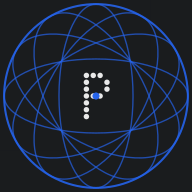
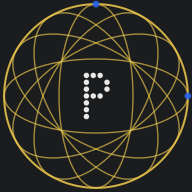
Fix particle positions and use gold wireframe color
- Add cx/cy to orbiting particles so they render at edge in static PNGs
- Change wireframe color from blue to gold (#E4C04A) per slate gold theme
- Particles remain blue (#2563EB), letter white (#ffffff)
- Re-export all icons with correct colors

🤖 Generated with [Claude Code](https://claude.com/claude-code)

diff --git a/src/Logo.tsx b/src/Logo.tsx
@@ -189,11 +189,12 @@ export const Logo: React.FC<LogoProps> = ({
       )}
 
       {/* Orbiting particles - rendered last so they appear on top */}
+      {/* cx/cy set to animation start positions so static renders show particles at edge, not center */}
       <g transform="translate(100, 100)">
-        <circle r="2.5" fill={finalParticleColor} opacity="0.9">
+        <circle cx="67" cy="0" r="2.5" fill={finalParticleColor} opacity="0.9">
           <animateMotion dur="8s" repeatCount="indefinite" path="M 67,0 A 67,27 0 1,1 -67,0 A 67,27 0 1,1 67,0" />
         </circle>
-        <circle r="2.5" fill={finalParticleColor} opacity="0.9">
+        <circle cx="0" cy="-67" r="2.5" fill={finalParticleColor} opacity="0.9">
           <animateMotion dur="8s" repeatCount="indefinite" path="M 0,-67 A 27,67 0 1,1 0,67 A 27,67 0 1,1 0,-67" />
         </circle>
       </g>

diff --git a/LOGO-DEPLOYMENTS.md b/LOGO-DEPLOYMENTS.md
@@ -6,7 +6,7 @@ Tracks where logos are deployed across projects and the export settings used.
 
 | Property | Value |
 |----------|-------|
-| Wireframe color | `#2563EB` (blue) |
+| Wireframe color | `#E4C04A` (gold) |
 | Particle color | `#2563EB` (blue) |
 | Letter color | `#ffffff` (white) |
 | Background | `#1a1c1e` (dark) |
@@ -29,7 +29,7 @@ Tracks where logos are deployed across projects and the export settings used.
 npm run export-icon -- \
   --size=1024 \
   --name=logo-slate-gold \
-  --color=#2563EB \
+  --color=#E4C04A \
   --particle-color=#2563EB \
   --letter-color=#ffffff \
   --background=#1a1c1e \
@@ -39,7 +39,7 @@ npm run export-icon -- \
 npm run export-icon -- \
   --size=48 \
   --name=logo-slate-gold-favicon \
-  --color=#2563EB \
+  --color=#E4C04A \
   --particle-color=#2563EB \
   --letter-color=#ffffff \
   --background=#1a1c1e \
@@ -69,7 +69,7 @@ npm run export-icon -- \
 npm run export-icon -- \
   --size=1024 \
   --name=principal-ade-icon \
-  --color=#2563EB \
+  --color=#E4C04A \
   --particle-color=#2563EB \
   --letter-color=#ffffff \
   --circular-background \
@@ -107,12 +107,12 @@ python3 generate_icons.py
 **Export commands:**
 ```bash
 # PWA icons
-npm run export-icon -- --size=192 --name=icon-192x192 --color=#2563EB --particle-color=#2563EB --letter-color=#ffffff --background=#1a1c1e --density-multiplier=2
-npm run export-icon -- --size=512 --name=icon-512x512 --color=#2563EB --particle-color=#2563EB --letter-color=#ffffff --background=#1a1c1e --density-multiplier=2
+npm run export-icon -- --size=192 --name=icon-192x192 --color=#E4C04A --particle-color=#2563EB --letter-color=#ffffff --background=#1a1c1e --density-multiplier=2
+npm run export-icon -- --size=512 --name=icon-512x512 --color=#E4C04A --particle-color=#2563EB --letter-color=#ffffff --background=#1a1c1e --density-multiplier=2
 
 # Favicons
-npm run export-icon -- --size=32 --name=favicon-32x32 --color=#2563EB --particle-color=#2563EB --letter-color=#ffffff --background=#1a1c1e --density-multiplier=2
-npm run export-icon -- --size=16 --name=favicon-16x16 --color=#2563EB --particle-color=#2563EB --letter-color=#ffffff --background=#1a1c1e --density-multiplier=2
+npm run export-icon -- --size=32 --name=favicon-32x32 --color=#E4C04A --particle-color=#2563EB --letter-color=#ffffff --background=#1a1c1e --density-multiplier=2
+npm run export-icon -- --size=16 --name=favicon-16x16 --color=#E4C04A --particle-color=#2563EB --letter-color=#ffffff --background=#1a1c1e --density-multiplier=2
 ```
 
 **Copy commands:**
